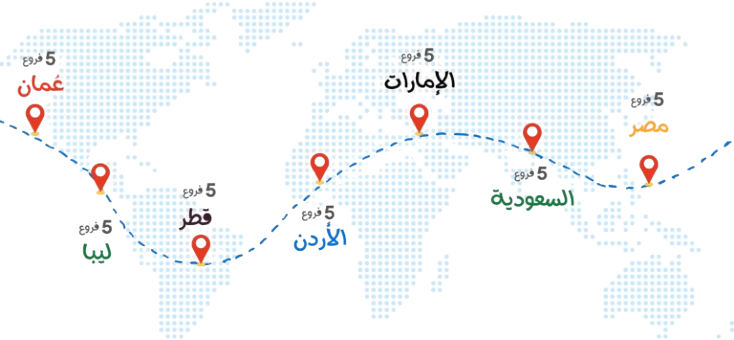
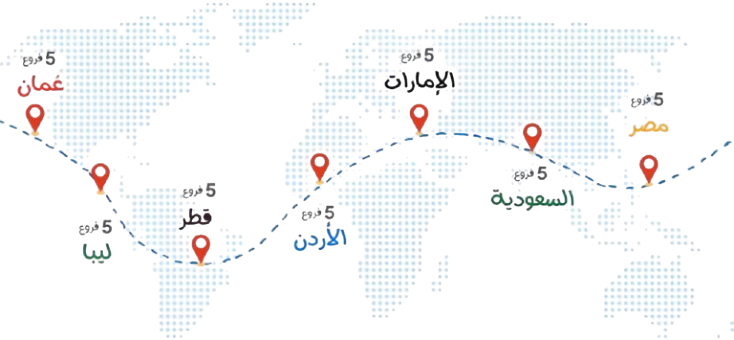
add footer

diff --git a/src/components/Footer.jsx b/src/components/Footer.jsx
@@ -1,0 +1,47 @@
+import React, { useState } from 'react'
+import logo from '../assets/logo.png'
+import whatsappIcon from '../assets/whatsapp.png'
+import tiktokIcon from '../assets/telegram.png'
+import instagramIcon from '../assets/instagram.png'
+import facebookIcon from '../assets/facebook.png'
+import xIcon from '../assets/twitter.png'
+import MenuLinks from './MenuLinks'
+
+const SocialIcon = ({ children }) => (
+  <div className="w-10 h-10 rounded-full bg-white shadow flex items-center justify-center">
+    <span className="text-xs">{children}</span>
+  </div>
+)
+
+export default function Footer(){
+  const [active, setActive] = useState('home')
+
+  return (
+    <footer className="bg-white py-10">
+      <div className="container mx-auto px-4 text-center">
+        {/* Top nav (RTL) - use MenuLinks so active links scale like Navbar */}
+        <div className="flex justify-center gap-6 text-[#16BFEF] opacity-80 font-semibold" dir="rtl">
+          <MenuLinks active={active} setActive={setActive} className="flex gap-6 no-underline text-[#046EAB]" />
+        </div>
+
+        {/* Logo */}
+        <div className="flex justify-center">
+          <img src={logo} alt="logo" className="w-60 h-auto" />
+        </div>
+
+        {/* Social icons */}
+        <div className="flex justify-center items-center gap-4 mb-6">
+          <img src={whatsappIcon} alt="whatsapp" className="w-7 h-7 " />
+          <img src={tiktokIcon} alt="tiktok" className="w-7 h-7 " />
+          <img src={instagramIcon} alt="instagram" className="w-7 h-7 " />
+          <img src={facebookIcon} alt="facebook" className="w-7 h-7 " />
+          <img src={xIcon} alt="x" className="w-7 h-7 " />
+        </div>
+
+        <hr className="border-t border-gray-200 my-6" />
+
+        <p className="text-sm text-gray-400">© 2025 B.laban | All Rights Salma Assem</p>
+      </div>
+    </footer>
+  )
+}

diff --git a/src/pages/Home.jsx b/src/pages/Home.jsx
@@ -13,7 +13,7 @@ export default function Home(){
             <p className="mt-6 text-4xl md:text-6xl lg:text-7xl font-extrabold mr-10 md:mr-40 lg:mr-80" dir='rtl'>ده مود جديد!</p>
 
             <div className="mt-8 flex justify-center">
-              <button onClick={() => window.location.href="#order"} className="bg-white text-[#0D9DD3] px-10 py-1.5 rounded-[15px] font-semibold shadow">اطلب الآن</button>
+              <button onClick={() => window.location.href="#order"} className="bg-white text-[#0D9DD3] px-10 py-1.5 rounded-[15px] font-bold text-2xl shadow">اطلب الآن</button>
             </div>
           </div>
         </div>
@@ -36,7 +36,7 @@ export default function Home(){
       {/* products placeholder - carousel is rendered via App */}
       <section className="py-10 ">
         <div className="max-w-7xl mx-auto px-4 sm:px-6 lg:px-8">
-          <h2 className="text-center text-2xl md:text-3xl font-bold text-sky-600 " dir="rtl">اللي كل الناس بتحكي عنه...</h2>
+          <h2 className="text-center text-2xl md:text-3xl font-bold text-[#0D9DD3] " dir="rtl">اللي كل الناس بتحكي عنه...</h2>
         </div>
       </section>
 

diff --git a/src/components/ProductCard.jsx b/src/components/ProductCard.jsx
@@ -14,7 +14,7 @@ export default function ProductCard({ image, title, price, onAdd }) {
         />
         <button
           onClick={onAdd}
-          className="absolute left-3 top-3 bg-white/90 text-sky-600 p-2 rounded-full shadow hover:scale-105 transition"
+          className="absolute left-3 top-3 bg-white/90 text-[#0D9DD3] p-2 rounded-full shadow hover:scale-105 transition"
           aria-label={`Add ${title} to cart`}
         >
           <ShoppingCartOutlinedIcon className="text-[24px] text-black cursor-pointer" />
@@ -29,7 +29,7 @@ export default function ProductCard({ image, title, price, onAdd }) {
           {title}
         </h3>
         <div className="mt-4 flex items-center justify-between">
-          <span className="text-sky-600 font-bold text-lg">{price} ج.م</span>
+          <span className="text-[#0D9DD3] font-bold text-lg">{price} ج.م</span>
           
         </div>
       </div>

diff --git a/src/components/Navbar.jsx b/src/components/Navbar.jsx
@@ -16,9 +16,8 @@ export default function Navbar(){
 
             {/* logo */}
             <div className="flex items-center">
-              <div className="bg-white rounded-full p-0.5 flex items-center justify-center">
-                <img src={logo} alt="B.Laban Logo" className="h-12 w-12 md:h-16 md:w-16 lg:h-20 lg:w-20 rounded-full object-cover" />
-              </div>
+                <img src={logo} alt="B.Laban Logo" className="h-20 w-20 md:h-26 md:w-26 lg:h-26 lg:w-26 rounded-full object-cover" />
+
             </div>
 
             {/* desktop links */}
@@ -41,6 +40,8 @@ export default function Navbar(){
           </div>
         </div>
       </nav>
+              <hr className="border-t border-gray-300 opacity-60 "/>
+
 
       {/* mobile menu rendered in-flow so it pushes content */}
       {mobileOpen && (

diff --git a/src/App.jsx b/src/App.jsx
@@ -3,6 +3,7 @@ import Navbar from './components/Navbar'
 import Home from './pages/Home'
 import ProductsCarousel from './components/ProductsCarousel'
 import BranchesSection from './components/BranchesSection'
+import Footer from './components/Footer'
 import img1 from './assets/1.jpg'
 import img2 from './assets/2.jpg'
 import img3 from './assets/3.jpg'
@@ -40,8 +41,9 @@ function App() {
 
         return <ProductsCarousel items={items} />
       })()}
-
        <BranchesSection />
+      <Footer />
+      
     </div>
   )
 }

diff --git a/src/components/MenuLinks.jsx b/src/components/MenuLinks.jsx
@@ -23,7 +23,7 @@ export default function MenuLinks({ active, setActive, isMobile = false, classNa
             className={itemClass}
             aria-current={isActive ? 'page' : undefined}
           >
-            <a href={link.href} className={isMobile ? 'no-underline text-white' : ''}>{link.label}</a>
+            <a href={link.href} className={isMobile ? 'no-underline text-[#ffffff]' : ''}>{link.label}</a>
           </li>
         )
       })}

diff --git a/src/components/BranchesMap.jsx b/src/components/BranchesMap.jsx
@@ -1,5 +1,5 @@
 import React from 'react';
-import mapImg from '../assets/map.png'; // add your map image at this path
+import mapImg from '../assets/map.jpg'; // add your map image at this path
 
 export default function BranchesMap() {
   return (
